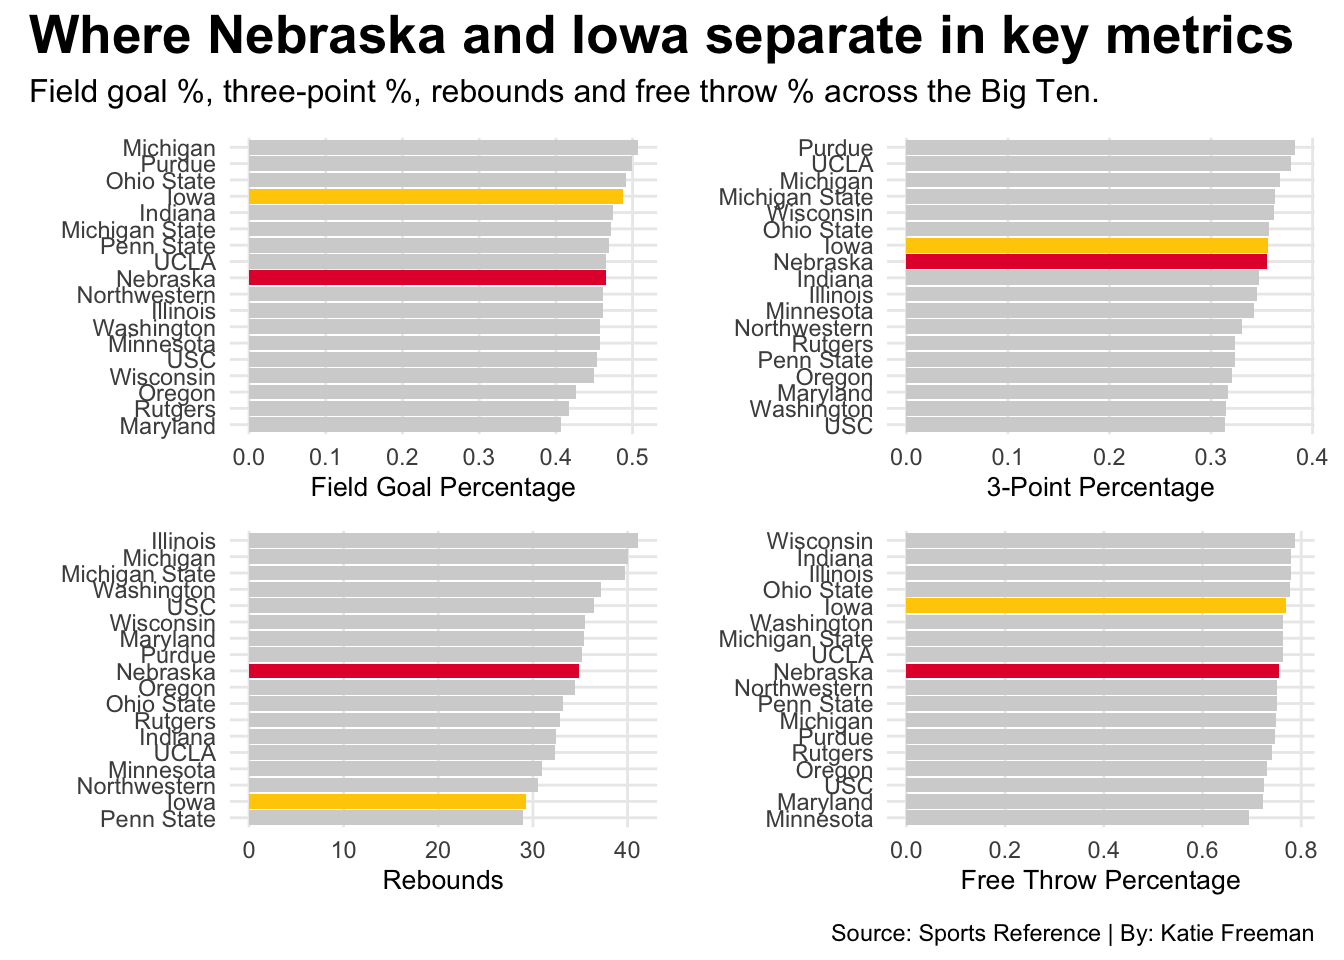
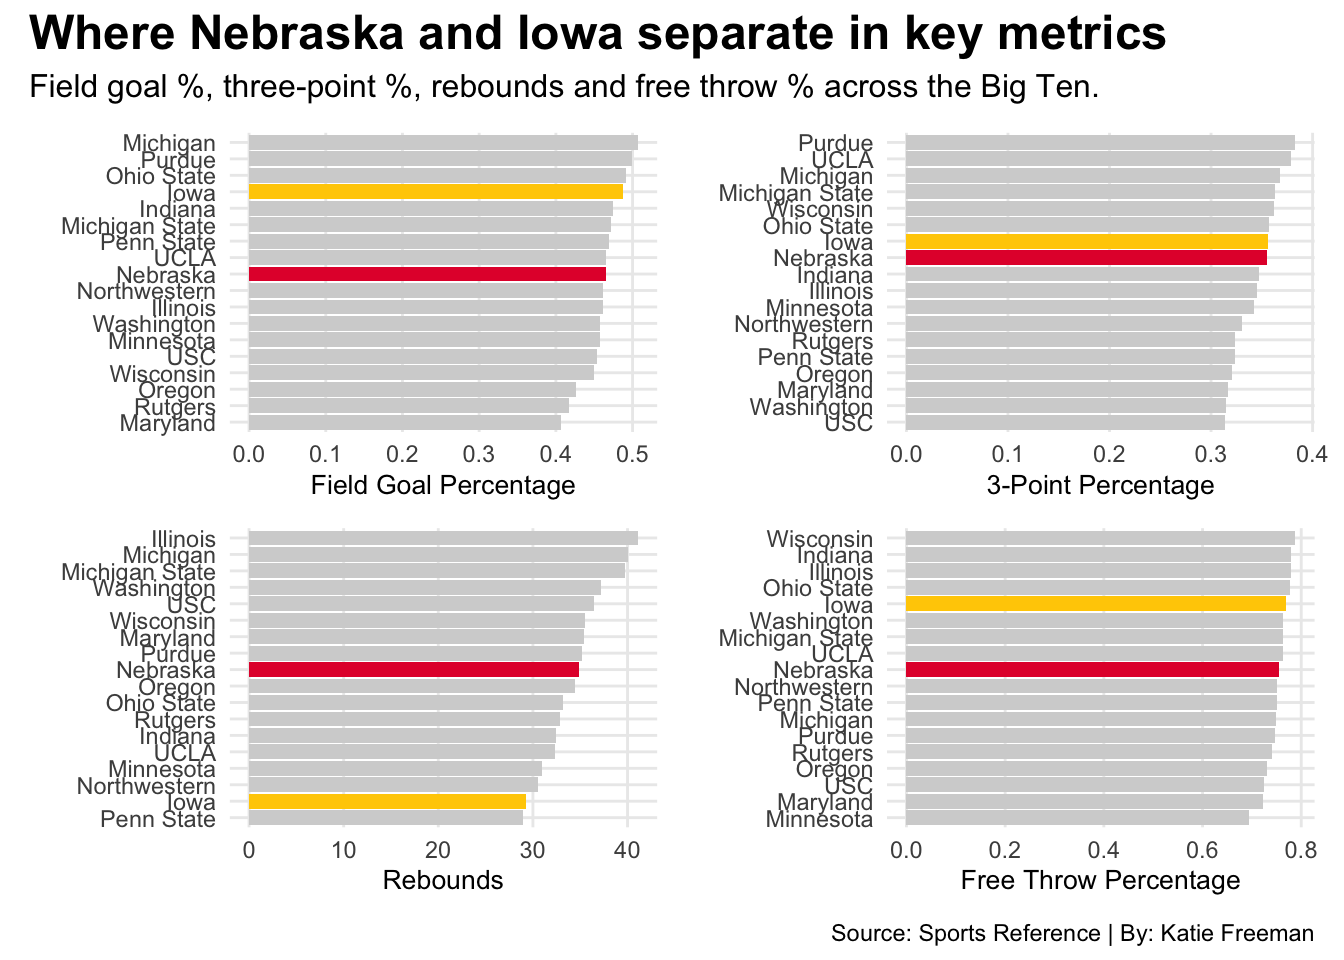
more changes

diff --git a/posts/nebraska-iowa-mens-basketball/index.html b/posts/nebraska-iowa-mens-basketball/index.html
@@ -398,7 +398,7 @@ pre > code.sourceCode > span > a:first-child::before { text-decoration: underlin
 <span id="cb2-21"><a href="#cb2-21" aria-hidden="true" tabindex="-1"></a>    ) <span class="sc">+</span></span>
 <span id="cb2-22"><a href="#cb2-22" aria-hidden="true" tabindex="-1"></a>  <span class="fu">theme_minimal</span>() <span class="sc">+</span> </span>
 <span id="cb2-23"><a href="#cb2-23" aria-hidden="true" tabindex="-1"></a>  <span class="fu">theme</span>(</span>
-<span id="cb2-24"><a href="#cb2-24" aria-hidden="true" tabindex="-1"></a>    <span class="at">plot.title =</span> <span class="fu">element_text</span>(<span class="at">size =</span> <span class="dv">20</span>, <span class="at">face =</span> <span class="st">"bold"</span>),</span>
+<span id="cb2-24"><a href="#cb2-24" aria-hidden="true" tabindex="-1"></a>    <span class="at">plot.title =</span> <span class="fu">element_text</span>(<span class="at">size =</span> <span class="dv">18</span>, <span class="at">face =</span> <span class="st">"bold"</span>),</span>
 <span id="cb2-25"><a href="#cb2-25" aria-hidden="true" tabindex="-1"></a>    <span class="at">axis.title =</span> <span class="fu">element_text</span>(<span class="at">size =</span> <span class="dv">8</span>), </span>
 <span id="cb2-26"><a href="#cb2-26" aria-hidden="true" tabindex="-1"></a>    <span class="at">plot.subtitle =</span> <span class="fu">element_text</span>(<span class="at">size=</span><span class="dv">10</span>), </span>
 <span id="cb2-27"><a href="#cb2-27" aria-hidden="true" tabindex="-1"></a>    <span class="at">panel.grid.minor =</span> <span class="fu">element_blank</span>(),</span>
@@ -474,7 +474,7 @@ pre > code.sourceCode > span > a:first-child::before { text-decoration: underlin
 <span id="cb4-49"><a href="#cb4-49" aria-hidden="true" tabindex="-1"></a>    <span class="at">caption =</span> <span class="st">"Source: Sports Reference | By: Katie Freeman"</span></span>
 <span id="cb4-50"><a href="#cb4-50" aria-hidden="true" tabindex="-1"></a>  ) <span class="sc">&amp;</span> </span>
 <span id="cb4-51"><a href="#cb4-51" aria-hidden="true" tabindex="-1"></a>  <span class="fu">theme</span>(</span>
-<span id="cb4-52"><a href="#cb4-52" aria-hidden="true" tabindex="-1"></a>    <span class="at">plot.title =</span> <span class="fu">element_text</span>(<span class="at">size =</span> <span class="dv">20</span>, <span class="at">face =</span> <span class="st">"bold"</span>),</span>
+<span id="cb4-52"><a href="#cb4-52" aria-hidden="true" tabindex="-1"></a>    <span class="at">plot.title =</span> <span class="fu">element_text</span>(<span class="at">size =</span> <span class="dv">18</span>, <span class="at">face =</span> <span class="st">"bold"</span>),</span>
 <span id="cb4-53"><a href="#cb4-53" aria-hidden="true" tabindex="-1"></a>    <span class="at">axis.title =</span> <span class="fu">element_text</span>(<span class="at">size =</span> <span class="dv">10</span>), </span>
 <span id="cb4-54"><a href="#cb4-54" aria-hidden="true" tabindex="-1"></a>    <span class="at">plot.subtitle =</span> <span class="fu">element_text</span>(<span class="at">size=</span><span class="dv">12</span>), </span>
 <span id="cb4-55"><a href="#cb4-55" aria-hidden="true" tabindex="-1"></a>    <span class="at">panel.grid.minor =</span> <span class="fu">element_blank</span>()</span>
@@ -526,7 +526,7 @@ pre > code.sourceCode > span > a:first-child::before { text-decoration: underlin
 <span id="cb5-28"><a href="#cb5-28" aria-hidden="true" tabindex="-1"></a>    ) <span class="sc">+</span></span>
 <span id="cb5-29"><a href="#cb5-29" aria-hidden="true" tabindex="-1"></a>  <span class="fu">theme_minimal</span>() <span class="sc">+</span> </span>
 <span id="cb5-30"><a href="#cb5-30" aria-hidden="true" tabindex="-1"></a>  <span class="fu">theme</span>(</span>
-<span id="cb5-31"><a href="#cb5-31" aria-hidden="true" tabindex="-1"></a>    <span class="at">plot.title =</span> <span class="fu">element_text</span>(<span class="at">size =</span> <span class="dv">20</span>, <span class="at">face =</span> <span class="st">"bold"</span>),</span>
+<span id="cb5-31"><a href="#cb5-31" aria-hidden="true" tabindex="-1"></a>    <span class="at">plot.title =</span> <span class="fu">element_text</span>(<span class="at">size =</span> <span class="dv">18</span>, <span class="at">face =</span> <span class="st">"bold"</span>),</span>
 <span id="cb5-32"><a href="#cb5-32" aria-hidden="true" tabindex="-1"></a>    <span class="at">axis.title =</span> <span class="fu">element_text</span>(<span class="at">size =</span> <span class="dv">10</span>), </span>
 <span id="cb5-33"><a href="#cb5-33" aria-hidden="true" tabindex="-1"></a>    <span class="at">plot.subtitle =</span> <span class="fu">element_text</span>(<span class="at">size=</span><span class="dv">12</span>), </span>
 <span id="cb5-34"><a href="#cb5-34" aria-hidden="true" tabindex="-1"></a>    <span class="at">panel.grid.minor =</span> <span class="fu">element_blank</span>(),</span>

diff --git a/index.html b/index.html
@@ -373,7 +373,7 @@ window.Quarto = {
 
 <div class="quarto-listing quarto-listing-container-default" id="listing-listing">
 <div class="list quarto-listing-default">
-<div class="quarto-post image-right" data-index="0" data-categories="YmlndGVuJTJDYmFza2V0YmFsbCUyQ25lYnJhc2thJTJDaW93YQ==" data-listing-date-sort="1777266000000" data-listing-file-modified-sort="1777327161608" data-listing-date-modified-sort="NaN" data-listing-reading-time-sort="6" data-listing-word-count-sort="1132">
+<div class="quarto-post image-right" data-index="0" data-categories="YmlndGVuJTJDYmFza2V0YmFsbCUyQ25lYnJhc2thJTJDaW93YQ==" data-listing-date-sort="1777266000000" data-listing-file-modified-sort="1777334384907" data-listing-date-modified-sort="NaN" data-listing-reading-time-sort="6" data-listing-word-count-sort="1132">
 <div class="thumbnail"><a href="./posts/nebraska-iowa-mens-basketball/index.html" class="no-external">
 
 <img loading="lazy" src="./posts/nebraska-iowa-mens-basketball/image.png" class="thumbnail-image">
